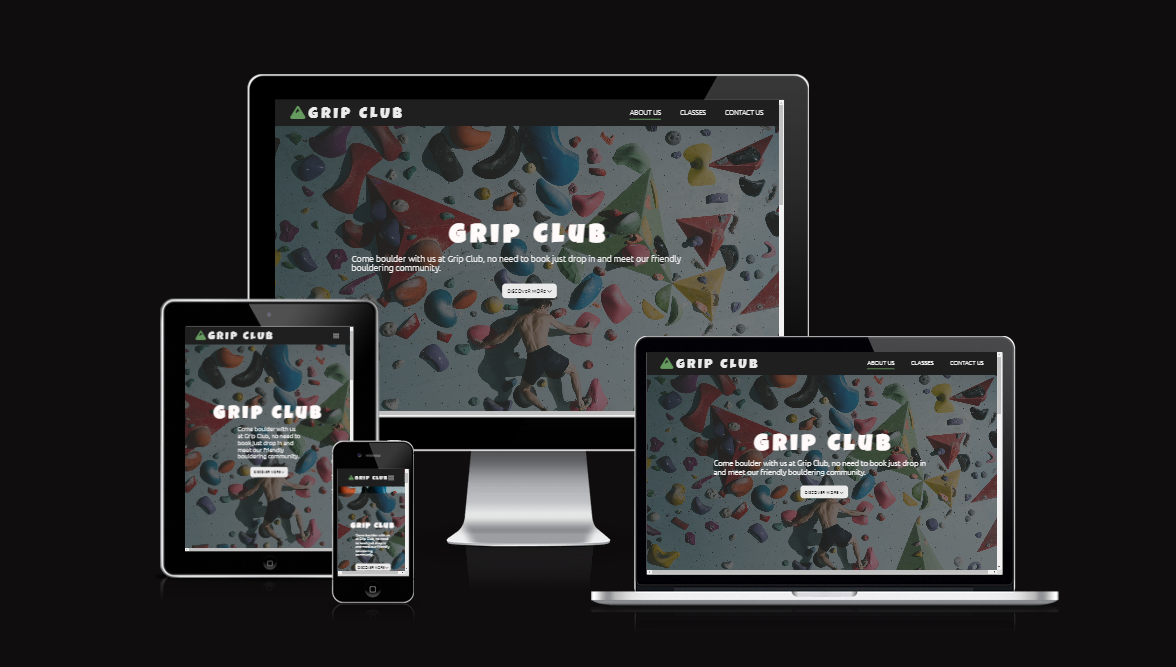
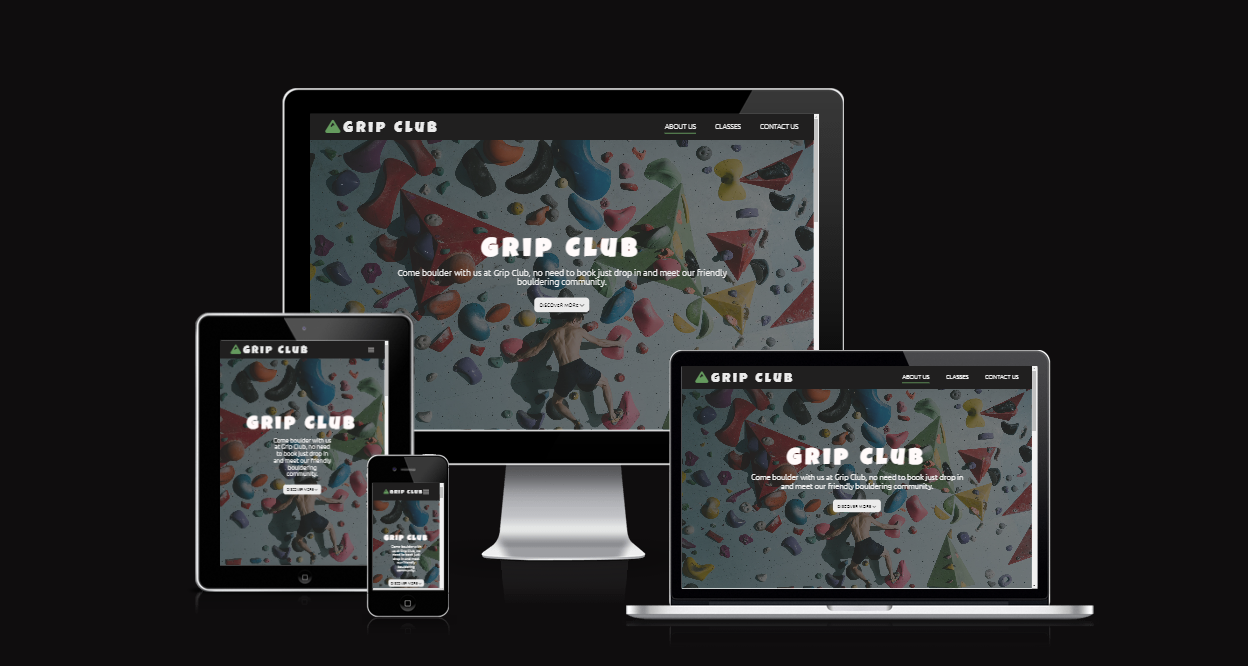
Update bug section README

Changed region(s): [[0.1224, 0.0901, 0.9184, 0.9309]]

diff --git a/README.md b/README.md
@@ -406,6 +406,8 @@ I have made sure to implement accessibility throughout this project. From the st
 
 </details><br />
 
+6. When i was testing the responsiveness using [Am i responsive](https://ui.dev/amiresponsive) it should that the phone image had a gap at the top where the overlay rgba did not cover the hero image. Within Google Dev tools this did not show. I decided last minute to change this just to be sure that the overlay covered the hero image completely. 
+
 ## Bugs Unfixed :
 
 1. Google dev tools flagged "Serve images in next-gen formats" which states that png images should be changed to WebP or AVIF format. I did attempt to do this and used a website to convert images to AVIF called [AVIF converter](https://avif.io/) however it would not download to my computer giving me an error message. I decided to stick with the png images for this project. In the future, i will try to work out and understand how to use AVIF and Webp to ensure this does not happen again. 
